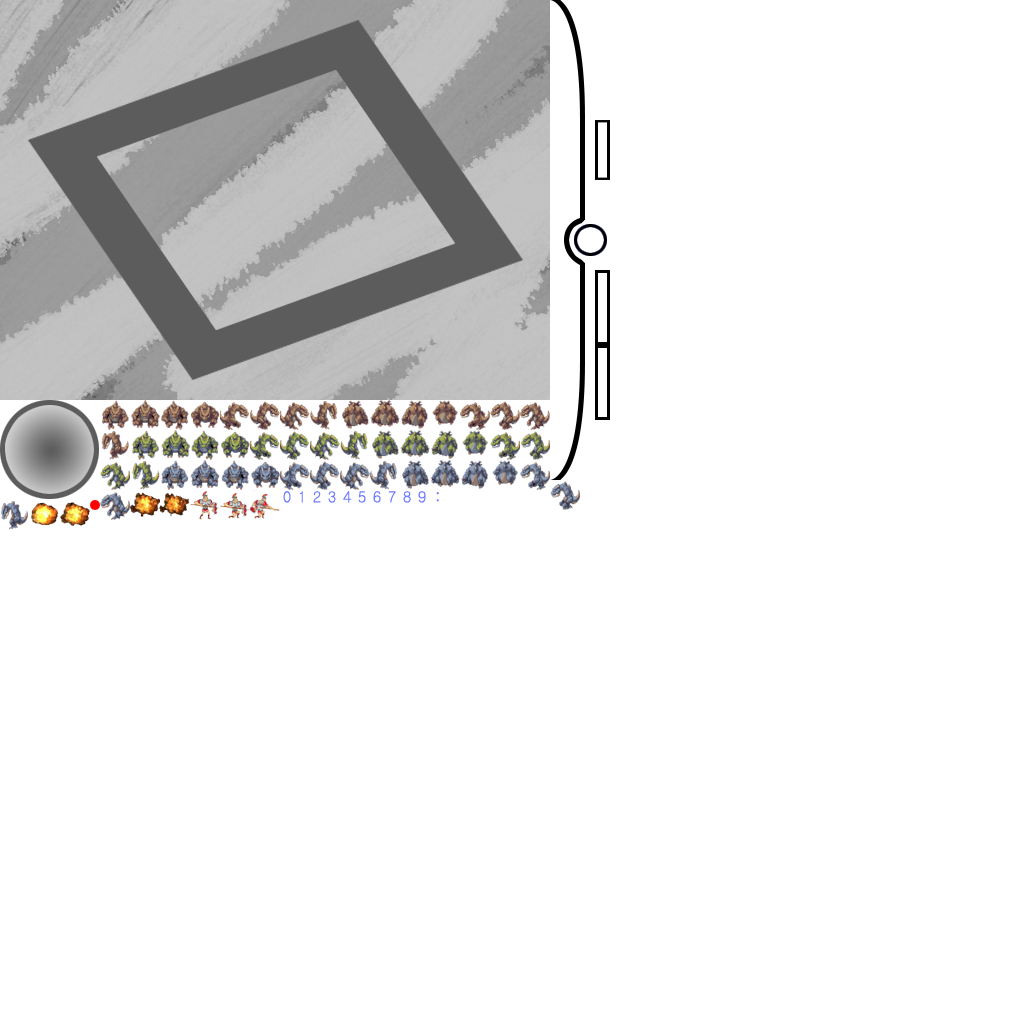
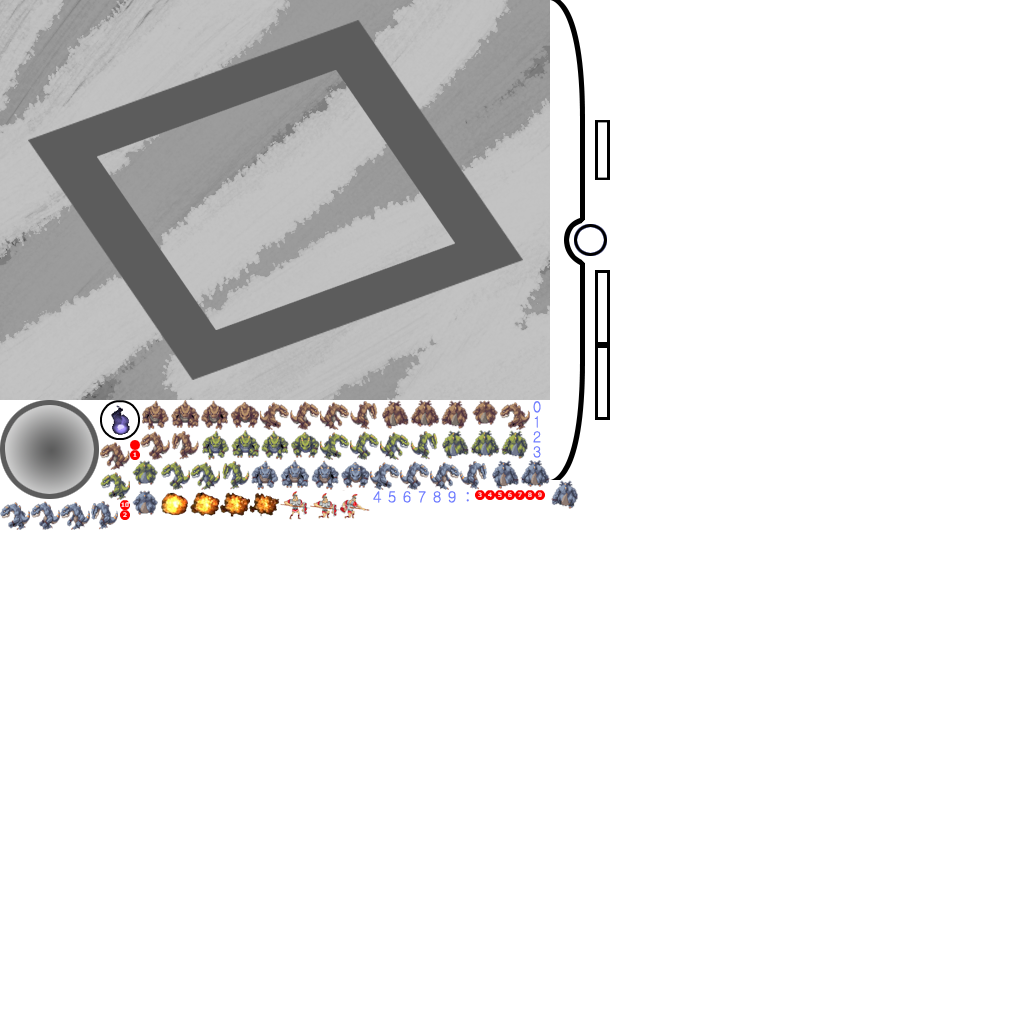
2016-09-17
Soul & Soul_Number

Changed region(s): [[0.0, 0.375, 0.5625, 0.5312]]

diff --git a/GameScene.cpp b/GameScene.cpp
@@ -2,7 +2,7 @@
 
 USING_NS_CC;
 
-Game::Game() : Game_Start(false), touch(false), touch_unit(false), summon_monster(0), anc_height(0), anc_width(0) {}
+Game::Game() : Game_Start(false), touch(false), touch_unit(false), new_soul_1(false), new_soul_2(false), summon_monster(0), anc_height(0), anc_width(0) {}
 
 Scene* Game::scene()
 {
@@ -26,6 +26,25 @@ bool Game::init()
 	SpriteBatchNode* spriteBatchNodeSurface = SpriteBatchNode::create("Plist.png");
 	addChild(spriteBatchNodeSurface, ZORDER_UNIT, TAG_UNIT);
 
+	Sprite* menuNormal = Sprite::createWithSpriteFrameName("Soul.png");
+	MenuItemSprite* menuSoul = MenuItemSprite::create(menuNormal, menuNormal, CC_CALLBACK_1(Game::onMenu, this));
+	menuSoul->setTag(TAG_MENU_SOUL);
+	menuSoul->setPosition(Point(-(winSize.width / 2) + 30, 30));
+	Menu* menu = Menu::create(menuSoul, NULL);
+	addChild(menu, ZORDER_MENU, TAG_MENU);
+
+	for (int i = 1; i <= 10; i++)
+	{
+		char szFile[32] = { 0, };
+
+		sprintf(szFile, "soul_number_%d.png", i);
+		Sprite* sprite = Sprite::createWithSpriteFrameName(szFile);
+		sprite->setPosition(30, 30);
+		sprite->setTag(TAG_SOUL_NUMBER + i);
+		sprite->setVisible(false);
+		menuSoul->addChild(sprite);
+	}
+	
 	InforBoard* inforBoard = InforBoard::create();
 	inforBoard->setTag(TAG_INFORBOARD);
 	inforBoard->setAnchorPoint(Point(0.5, 1));
@@ -51,7 +70,7 @@ bool Game::init()
 	//schedule(schedule_selector(Game::addmonster), 1.f);
 	schedule(schedule_selector(Game::unit_atk_cooltime));
 	schedule(schedule_selector(Game::unit_atk_monster));
-	addunit(0.1f);
+	//addunit(0.1f);
 
 	auto listener = EventListenerTouchAllAtOnce::create();
 	listener->onTouchesBegan = CC_CALLBACK_2(Game::onTouchesBegan, this);
@@ -717,12 +736,43 @@ void Game::zorder_assort(float dt)
 
 	if (summon_monster > 0 && !((int)inforBoard->getTime()))
 	{
+		if (summon_monster == 11)
+		{
+			summon_monster = 10;
+			inforBoard->setSoul(inforBoard->getSoul() + 3);
+		}
 		schedule(schedule_selector(Game::addmonster), 1.f);
+		new_soul_1 = true;
+		new_soul_2 = false;
 	}
 	else if (summon_monster == 0)
 	{
 		unschedule(schedule_selector(Game::addmonster));
-		summon_monster = 10;
+		summon_monster = 11;
+	}
+	
+	if (inforBoard->getSoul() <= 0)
+		return;
+
+	int temp = inforBoard->getSoul();
+
+	if (new_soul_1 == true)
+	{
+		new_soul_1 == false;
+		
+		if (new_soul_2 == false)
+		{
+			new_soul_2 = true;
+
+			if (temp < 10)
+				getChildByTag(TAG_MENU)->getChildByTag(TAG_MENU_SOUL)->getChildByTag(TAG_SOUL_NUMBER + temp)->setVisible(true);
+			else getChildByTag(TAG_MENU)->getChildByTag(TAG_MENU_SOUL)->getChildByTag(TAG_SOUL_NUMBER + 10)->setVisible(true);
+		}
+	}
+	else
+	{
+		for (int i = 1; i <= 10; i++)
+			getChildByTag(TAG_MENU)->getChildByTag(TAG_MENU_SOUL)->getChildByTag(TAG_SOUL_NUMBER + i)->setVisible(false);
 	}
 }
 
@@ -755,4 +805,15 @@ void Game::unit_range(Unit* unit)
 void Game::screen_out()
 {
 	getChildByTag(TAG_BACKGROUND)->setPosition(getChildByTag(TAG_BACKGROUND)->getPosition());
+}
+
+void Game::onMenu(Object* sender)
+{
+	switch (((Node*)sender)->getTag())
+	{
+	case TAG_MENU_SOUL:
+		new_soul_1 = false;
+		new_soul_2 = false;
+		break;
+	}
 }

diff --git a/InforBoard.cpp b/InforBoard.cpp
@@ -2,7 +2,7 @@
 
 USING_NS_CC;
 
-InforBoard::InforBoard() : mTime(10), mGold(0), mJewelry(0), mLevel(0), mMonster(0)
+InforBoard::InforBoard() : mTime(3), mGold(0), mJewelry(0), mLevel(0), mMonster(0), mSoul(0)
 {
 }
 
@@ -181,4 +181,14 @@ void InforBoard::update_monster()
 	}
 	changeNumber(TAG_BOARD_MONSTER + 10, 0);
 	changeNumber(TAG_BOARD_MONSTER + 11, 5);
+}
+
+void InforBoard::setSoul(int soul)
+{
+	mSoul = soul;
+}
+
+int InforBoard::getSoul()
+{
+	return mSoul;
 }

diff --git a/Order.h b/Order.h
@@ -7,6 +7,7 @@
 #define ZORDER_UNIT 1
 #define ZORDER_INFORBOARD 2
 #define ZORDER_INTERfACE 3
+#define ZORDER_MENU 4
 
 #define TAG_BACKGROUND 1000
 #define TAG_UNIT 1001
@@ -22,5 +23,10 @@
 #define TAG_RANGE 2001
 #define TAG_MONSTER 2002
 #define TAG_CHARACTER 2003
+
+#define TAG_MENU 3000
+#define TAG_MENU_SOUL 3001
+
+#define TAG_SOUL_NUMBER 500
 
 #endif
